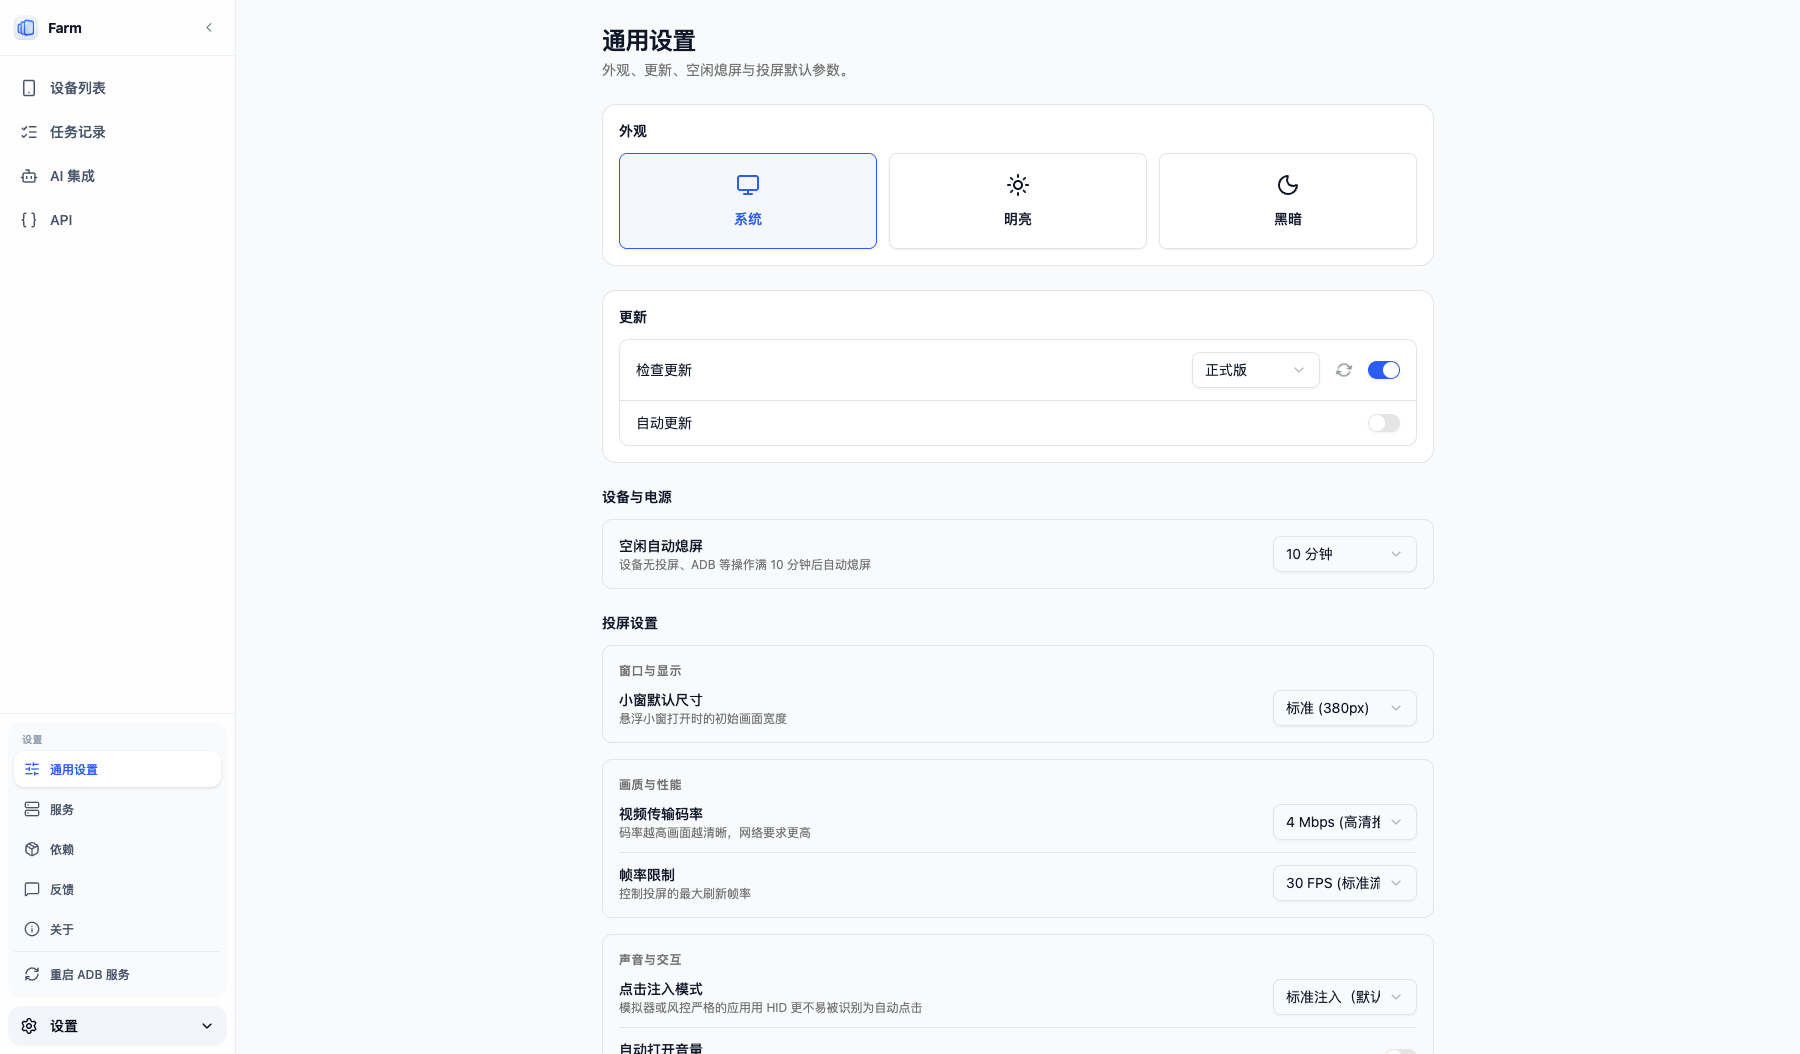
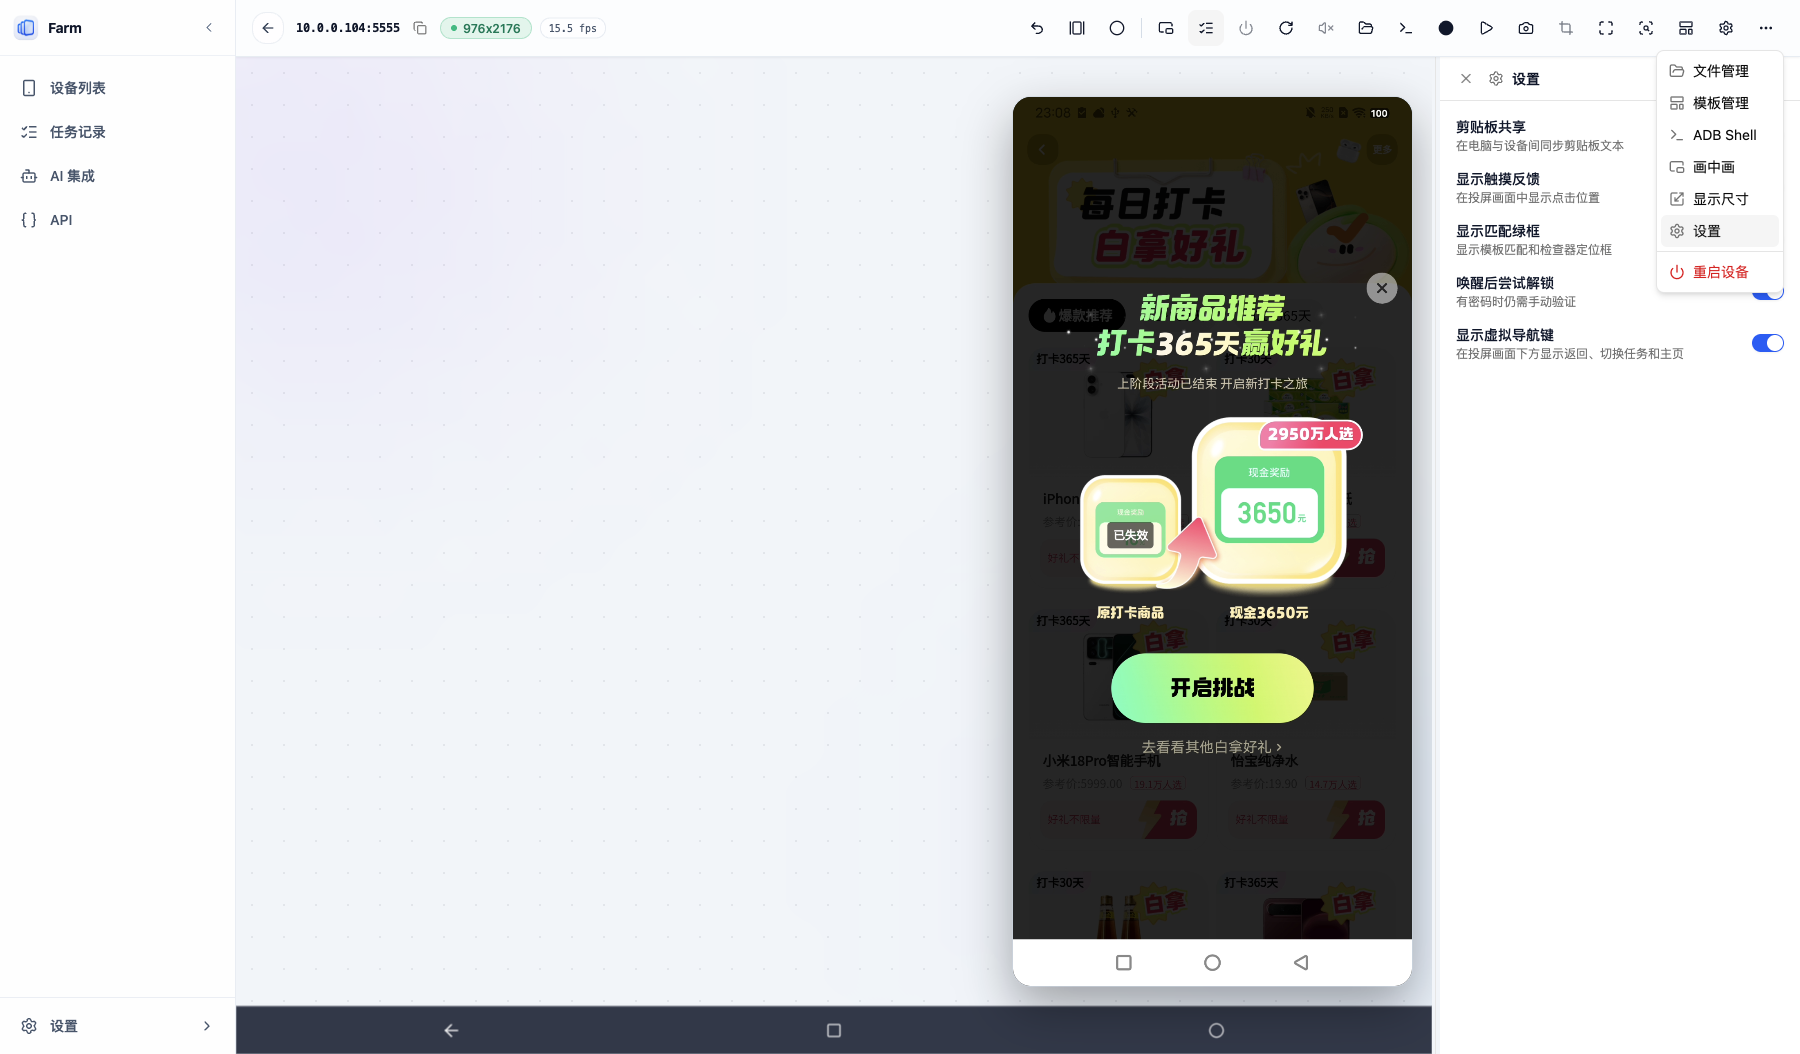
fix(投屏@v2026.11.21-1)：虚拟导航键贴底并迁移设置

diff --git a/frontend/src/components/player/DevicePlayer.vue b/frontend/src/components/player/DevicePlayer.vue
@@ -849,11 +849,11 @@ defineExpose({ handleEscape })
     </Dialog>
     <!-- 舞台 + 侧栏 -->
     <SplitLayout :class="{ 'capture-layout': captureOpen, 'task-layout': tasksVisible }" :open="sidePanel !== null">
-      <template #main><div class="flex h-full min-h-0 flex-col overflow-hidden p-0" :class="embedded ? 'bg-black' : 'bg-transparent gap-3 overflow-auto'">
+      <template #main><div class="flex h-full min-h-0 flex-col overflow-hidden p-0" :class="[embedded ? 'bg-black' : 'bg-transparent overflow-auto', !embedded && !virtualNavVisible ? 'gap-3' : '']">
       <main
         data-player-viewport
-        class="relative flex min-w-0 flex-1 items-center justify-center p-3 sm:p-5"
-        :class="embedded ? 'min-h-0 bg-black !p-0' : 'min-h-0 !py-8 sm:!py-10'"
+        class="relative flex min-w-0 flex-1 items-center p-3 sm:p-5"
+        :class="embedded ? 'min-h-0 justify-center bg-black !p-0' : virtualNavVisible ? 'min-h-0 justify-end pt-8 pb-0 sm:pt-10 sm:pb-0' : 'min-h-0 justify-center py-8 sm:py-10'"
         @dragenter="drop.onDragEnter"
         @dragover="drop.onDragOver"
         @dragleave="drop.onDragLeave"

diff --git a/frontend/src/components/system/PlayerSettingsContent.vue b/frontend/src/components/system/PlayerSettingsContent.vue
@@ -113,13 +113,6 @@ const s = usePlayerSettings()
         </div>
         <Switch :model-value="s.autoUnlockOnWake.value" aria-label="唤醒后尝试解锁开关" @update:model-value="v => s.autoUnlockOnWake.value = !!v" />
       </div>
-      <div class="flex items-center justify-between gap-4 border-t pt-3">
-        <div>
-          <p class="text-sm font-medium">显示虚拟导航键</p>
-          <p class="text-xs text-muted-foreground">在投屏画面下方显示返回、切换任务和主页</p>
-        </div>
-        <Switch :model-value="s.virtualNavVisible.value" aria-label="显示虚拟导航键开关" @update:model-value="v => s.virtualNavVisible.value = !!v" />
-      </div>
     </div>
   </div>
 </template>

diff --git a/docs/versions/v2026.11.21-1-fix/version.md b/docs/versions/v2026.11.21-1-fix/version.md
@@ -3,7 +3,7 @@
 ## 修复
 
 - 虚拟导航键从投屏画面覆盖层移到画面下方，占满投屏区域宽度，不再遮挡画面。
-- 取消画面内悬浮球，改为设置中的“显示虚拟导航键”开关，默认关闭。
+- 取消画面内悬浮球，改为手机详情页“设置”面板中的“显示虚拟导航键”开关，默认关闭。
 - 原生设备小窗启用虚拟键时自动增加窗口高度，避免挤压画面。
 - 紧凑工具栏仍固定显示返回、切换任务、主页三个按钮。
 

diff --git a/docs/versions/v2026.11.21-1-fix/tasks.md b/docs/versions/v2026.11.21-1-fix/tasks.md
@@ -1,7 +1,7 @@
 # v2026.11.21-1 任务清单
 
 - [x] 虚拟导航键移到画面下方并占满宽度。
-- [x] 改为设置开关，移除悬浮球。
+- [x] 改为手机详情页“设置”面板中的开关，移除悬浮球。
 - [x] 小窗增加虚拟键高度适配。
 - [x] 修复紧凑模式隐藏返回和切换任务的问题。
 - [x] 前端与桌面测试通过。
